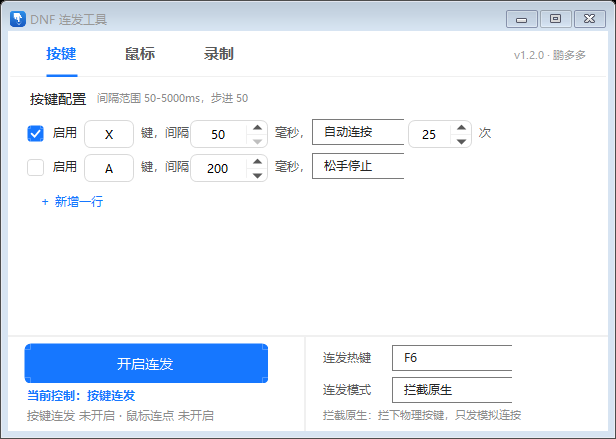
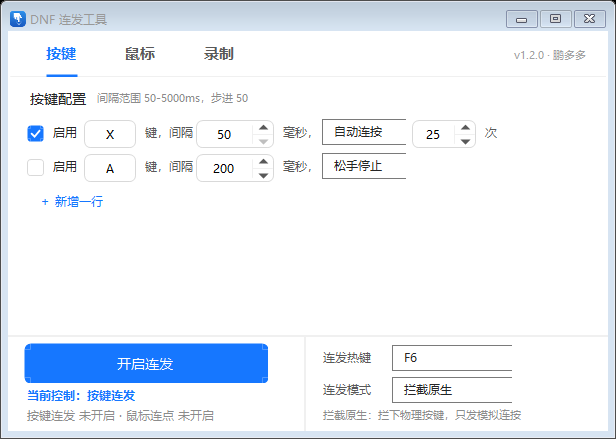
fix: 按键行控件不再为「次」挤压 + 录制/回放按钮回到左下角启动区
- 按键行：间距统一 6px（原来 4px 贴在一起显得挤），键名框 52、间隔框 78、
  下拉 84、次数框 64 均按内容给足；「次」紧跟次数框，行尾留给「删除」
  （固定在 RowWidth-48=496，各行上下对齐），两者不再重叠
- 录制页：撤掉页内两个按钮，回到左下角启动区——「● 开始录制」「▶ 开始回放」
  并排等宽（114 + 16 + 114，占原主按钮那块 244×40），非录制页仍是单个主按钮；
  按钮状态收进 SyncRecordButtons()，切页与状态变化都会刷新
- 录制页页内：回放设置行上移到 y=170（少了按钮那行），状态行 y=202 +
  固定提示 y=222
- README / CHANGELOG / PLAN §14 同步，重拍 screenShot_1 / screenShot_3

diff --git a/MainForm.cs b/MainForm.cs
@@ -682,21 +682,17 @@ public class MainForm : Form
     /// <summary>刷新主按钮与"当前控制"标识：跟随 Tab，且反映对应引擎的运行状态。</summary>
     private void RefreshRunCard()
     {
-        // 录制页的「开始/停止回放」按钮已经搬到页内（与开始录制并排），
-        // 底部这张卡只留「当前控制 + 状态」文字，不再重复一个同功能按钮
-        bool showMainButton = _tabIndex != TabRecord;
-        btnMain.Visible = showMainButton;
-        lblTarget.Top = showMainButton ? 50 : 28;
-        lblStatus.Top = showMainButton ? 70 : 54;
+        // 录制页在同一个位置放「开始录制 + 开始回放」两个按钮，其它 Tab 仍是单个主按钮
+        bool record = _tabIndex == TabRecord;
+        btnMain.Visible = !record;
+        btnRecord.Visible = record;
+        btnPlay.Visible = record;
 
         switch (_tabIndex)
         {
             case TabRecord:
-                lblTarget.Text = "当前控制：轨迹回放";
-                btnMain.Text = _player != null ? "停止回放" : "开始回放";
-                // 未选方案/录制中不可开始；回放中恒可停止
-                btnMain.Enabled = _player != null || (_recorder == null && SelectedProfile() != null);
-                btnMain.Danger = _player != null;
+                lblTarget.Text = "当前控制：录制回放";
+                SyncRecordButtons(); // 切到录制页时按当前状态刷一遍按钮
                 break;
 
             case TabMouse:
@@ -1053,8 +1049,10 @@ public class MainForm : Form
         pnlMain.Controls.Add(tabHeader);
         Controls.Add(pnlMain);
 
-        // 启动区（左下）：单按钮跟随当前 Tab——按键页控制连发、鼠标页控制连点
+        // 启动区（左下）：按键/鼠标页是一个主按钮；录制页换成「开始录制 / 开始回放」两个等宽按钮
         var pnlRun = new Panel { Location = new Point(2, 306), Size = new Size(294, 92), BackColor = Color.White };
+        const int RunBtnW = 114;              // (244 - 间距 16) / 2，两个按钮均分同一块宽度
+        const int RunBtnGap = 16;
         btnMain = new AntButton
         {
             Kind = AntButton.AntKind.Primary,
@@ -1063,6 +1061,26 @@ public class MainForm : Form
             Size = new Size(244, 40),
             Font = new Font(AntStyle.FontName, 10f)
         };
+        btnRecord = new AntButton
+        {
+            Kind = AntButton.AntKind.Primary,
+            Text = "● 开始录制",
+            Location = new Point(14, 6),
+            Size = new Size(RunBtnW, 40),
+            Font = new Font(AntStyle.FontName, 10f),
+            Visible = false
+        };
+        btnRecord.Click += (_, _) => ToggleRecording();
+        btnPlay = new AntButton
+        {
+            Kind = AntButton.AntKind.Default,
+            Text = "▶ 开始回放",
+            Location = new Point(14 + RunBtnW + RunBtnGap, 6),
+            Size = new Size(RunBtnW, 40),
+            Font = new Font(AntStyle.FontName, 10f),
+            Visible = false
+        };
+        btnPlay.Click += (_, _) => TogglePlayback();
         lblTarget = new Label
         {
             Text = "当前控制：按键连发",
@@ -1079,6 +1097,8 @@ public class MainForm : Form
             ForeColor = AntStyle.TextTertiary
         };
         pnlRun.Controls.Add(btnMain);
+        pnlRun.Controls.Add(btnRecord);
+        pnlRun.Controls.Add(btnPlay);
         pnlRun.Controls.Add(lblTarget);
         pnlRun.Controls.Add(lblStatus);
         Controls.Add(pnlRun);
@@ -1535,32 +1555,10 @@ public class MainForm : Form
         pnlRecRows.Controls.Add(lblRecEmpty);
         lblRecEmpty.BringToFront();
 
-        // 录制与回放并排，等宽均分（间距 16）：两个动作同级，谁也不比谁落后半行
-        const int BtnGap = 16;
-        const int BtnW = (RowWidth - BtnGap) / 2;   // 264
-        const int BtnY = 164;
-        btnRecord = new AntButton
-        {
-            Kind = AntButton.AntKind.Primary,
-            Text = "● 开始录制",
-            Location = new Point(16, BtnY),
-            Size = new Size(BtnW, 30)
-        };
-        btnRecord.Click += (_, _) => ToggleRecording();
-        page.Controls.Add(btnRecord);
-
-        btnPlay = new AntButton
-        {
-            Kind = AntButton.AntKind.Default,
-            Text = "▶ 开始回放",
-            Location = new Point(16 + BtnW + BtnGap, BtnY),
-            Size = new Size(BtnW, 30)
-        };
-        btnPlay.Click += (_, _) => TogglePlayback();
-        page.Controls.Add(btnPlay);
+        // 录制/回放两个按钮在左下角的启动区里并排（见 BuildUi 的 pnlRun），页面内不再放按钮
 
         // 回放行：模式 + 数值 + 单位 + 间隔
-        const int PlayRowY = 200;
+        const int PlayRowY = 170;
         lblPlay = new Label
         {
             Text = "回放",
@@ -1634,12 +1632,21 @@ public class MainForm : Form
         // 这一行空闲时是操作提示，录制/回放时变成状态（录制中… / 回放第几次）
         lblRecStatus = new Label
         {
-            Location = new Point(16, 232),
+            Location = new Point(16, 202),
+            AutoSize = true,
+            ForeColor = AntStyle.TextTertiary,
+            Font = new Font(AntStyle.FontName, 8f)
+        };
+        var lblRecHint = new Label
+        {
+            Text = "录制时主窗口收进托盘，右下角留状态条。",
+            Location = new Point(16, 222),
             AutoSize = true,
             ForeColor = AntStyle.TextTertiary,
             Font = new Font(AntStyle.FontName, 8f)
         };
         page.Controls.Add(lblRecStatus);
+        page.Controls.Add(lblRecHint);
     }
 
     /// <summary>回放模式收口：一直放＝隐藏数值框；其余按"次/分钟"给范围与单位。</summary>
@@ -1938,13 +1945,11 @@ public class MainForm : Form
         UpdateRecordUi();
     }
 
-    /// <summary>录制/回放状态与按钮文案、列表锁定统一在这里收口（所有入口都调它）。</summary>
-    private void UpdateRecordUi()
+    /// <summary>录制/回放两个按钮的文案与可用性（Tab 切换与状态变化都要刷新）。</summary>
+    private void SyncRecordButtons()
     {
         bool rec = _recorder != null;
         bool play = _player != null;
-        bool locked = rec || play;
-        bool canPlay = play || (!rec && SelectedProfile() != null);
 
         btnRecord.Text = rec ? "■ 停止录制" : "● 开始录制";
         btnRecord.Danger = rec;
@@ -1954,8 +1959,19 @@ public class MainForm : Form
         btnPlay.Text = play ? "■ 停止回放" : "▶ 开始回放";
         btnPlay.Kind = play ? AntButton.AntKind.Primary : AntButton.AntKind.Default;
         btnPlay.Danger = play;
-        btnPlay.Enabled = canPlay;
+        btnPlay.Enabled = play || (!rec && SelectedProfile() != null); // 未选方案/录制中不可开始
         btnPlay.Invalidate();
+    }
+
+    /// <summary>录制/回放状态与按钮文案、列表锁定统一在这里收口（所有入口都调它）。</summary>
+    private void UpdateRecordUi()
+    {
+        bool rec = _recorder != null;
+        bool play = _player != null;
+        bool locked = rec || play;
+        bool canPlay = play || (!rec && SelectedProfile() != null);
+
+        SyncRecordButtons();
 
         if (rec)
         {
@@ -2275,17 +2291,19 @@ public class MainForm : Form
         row.TxtKey = new AntInput
         {
             Location = new Point(58, 3),
-            Size = new Size(50, 28)
+            Size = new Size(52, 28)
         };
         row.TxtKey.Inner.MaxLength = 2;   // 单字符 A-Z/0-9；小键盘数字为 N0-N9 两字符
         row.TxtKey.Inner.CharacterCasing = CharacterCasing.Upper;
         row.TxtKey.Inner.TextAlign = HorizontalAlignment.Center;
         row.TxtKey.Text = key;
 
-        // 与鼠标页同构：控件位置按实测文字宽度顺排（Label.AutoSize 挂到父控件后 Right 才有值）
-        int x = 58 + 50 + 4;
+        // 控件按实测文字宽度顺排，间距统一 6px（Label.AutoSize 挂到父控件后 Right 才有值）。
+        // 宽度都按内容给足：键 2 字符、间隔 4 位数、下拉「自动连按」、次数 5 位数；
+        // 「次」紧跟次数框，行尾留给「删除」，两者互不重叠。
+        int x = 58 + 52 + 6;
         var lblGap = MakeRowText("键，间隔", x);
-        x += RowTextWidth("键，间隔") + 4;
+        x += RowTextWidth("键，间隔") + 6;
         row.TxtMs = new AntNumber
         {
             Location = new Point(x, 3),
@@ -2295,15 +2313,15 @@ public class MainForm : Form
             Max = MaxMs
         };
         row.TxtMs.Text = ms.ToString();
-        x += 78 + 4;
+        x += 78 + 6;
         var lblMs = MakeRowText("毫秒，", x);
-        x += RowTextWidth("毫秒，") + 4;
-        row.SelStop = new AntSelect { Location = new Point(x, 2), Width = 92 };
-        row.SelStop.Inner.DropDownWidth = 92;
+        x += RowTextWidth("毫秒，") + 6;
+        row.SelStop = new AntSelect { Location = new Point(x, 2), Width = 84 };
+        row.SelStop.Inner.DropDownWidth = 84;
         row.SelStop.Inner.Items.Add("松手停止");
         row.SelStop.Inner.Items.Add("自动连按");
         row.SelStop.SelectedIndex = stopMode == "auto" ? 1 : 0; // 先定下拉框，事件尚未挂上
-        x += 92 + 4;
+        x += 84 + 6;
         row.NumCount = new AntNumber
         {
             Location = new Point(x, 3),
@@ -2314,16 +2332,15 @@ public class MainForm : Form
         };
         row.NumCount.Text = "0"; // 0 = 无限
         row.NumCount.Inner.MaxLength = 5;
-        x += 64 + 4;
+        x += 64 + 6;
         row.LblCount = MakeRowText("次", x); // 单位跟着次数框一起显隐
-        x += RowTextWidth("次") + 4;
         ApplyKeyStopMode(row, stopMode, stopValue); // 初始收口：松手停止时隐藏次数框
         row.LnkDel = new AntButton
         {
             Kind = AntButton.AntKind.Text,
             Danger = true,
             Text = "删除",
-            Location = new Point(Math.Min(x, RowWidth - 44), 3),
+            Location = new Point(RowWidth - 48, 3), // 固定在行尾右侧，各行的「删除」上下对齐
             Size = new Size(44, 26),
             Visible = false
         };

diff --git a/docs/PLAN-v1.2.0.md b/docs/PLAN-v1.2.0.md
@@ -687,10 +687,10 @@ MacroPlayer.Start(profile, repeatMode, value)
 | 合并的两个坑 | ① `JsonValueKind` 把 `true`/`false` 拆成 `True`、`False` 两个值，直接比 `GetValueKind()` 会把合法布尔值判成类型不符 → 加 `KindMatches` 专门放行布尔；② 默认值为 `null` 的字段（`ConfigVersion`）在骨架里是 `null`，需要单独走"沿用文件值"分支，否则每次加载都会把它丢掉并记一次"非法值回落" |
 | 旧字段 `PlayGapMs` → `PlayGapSec` | 合并前先跑 `MigrateLegacy`：文件里没有 `PlayGapSec` 但有 `PlayGapMs` 时换算成秒（`(ms+500)/1000`），日志留一条迁移记录 |
 | 自动点击次数框步进 | `Step` 1、默认 `1`、范围 `0–99999`（0 = 无限），数字框后补「次」单位；单位与次数框一起显隐（松手停止时都隐藏）。`Limits.MouseCountMax = 99999`，与按键连按（`Limits.KeyCountMax = 100000`）分开 |
-| 按键次数框与鼠标页对齐 | 按键行 `NumCount` 改成 `Step=1`、`Max=99999`（`Limits.KeyCountMax` 同步 100000 → 99999），框后加「次」`Label`（`RowControls.LblCount`），`ApplyKeyStopMode` 里与数值框一起显隐。行内控件改为按实测宽度顺排（`TxtKey` 50 / `TxtMs` 78 / `SelStop` 92 / `NumCount` 64），否则加「次」后「删除」会越出 544 行宽 |
-| 录制页两个按钮并排 | `btnPlay` 新增在页内：`BtnW = (RowWidth - 16) / 2 = 264`，`btnRecord` 在 16、`btnPlay` 在 16+264+16=296，同一 y=164。录制页底部卡片不再显示 `btnMain`（`RefreshRunCard` 里按 Tab 控制 `Visible`，标签上移补位），避免出现两个「开始回放」 |
-| 录制页标题统一 | 改用 `AddPageTitle(page, "鼠标录制回放", "最多 10 个方案，单次录制上限 10 分钟")`；列表下移到 y=38，回放设置行 y=200，页底一行 y=232 |
-| 录制页状态行复用 | `lblRecStatus` 挪到 y=232 当「状态/提示」两用：空闲显示 `RecordHint`（F9/F10 说明，8pt 灰），录制中红字「● 录制中…」，回放中由 `PlayTimer_Tick` 写进度（蓝字）。「共 N 个方案」「已选：方案X · 时长」文案与 `lblPlayInfo` / `DescribeSelection` 一并删除 |
+| 按键次数框与鼠标页对齐 | 按键行 `NumCount` 改成 `Step=1`、`Max=99999`（`Limits.KeyCountMax` 同步 100000 → 99999），框后加「次」`Label`（`RowControls.LblCount`），`ApplyKeyStopMode` 里与数值框一起显隐。行内控件改为按实测宽度顺排，间距统一 6px、宽度按内容给足（`TxtKey` 52 / `TxtMs` 78 / `SelStop` 84 / `NumCount` 64）；「次」紧跟次数框（x≈456），`LnkDel` 固定在 `RowWidth - 48 = 496`、各行上下对齐，两者互不重叠 |
+| 录制页两个按钮并排 | 两个按钮放进左下角启动区 `pnlRun`（不另起一行）：`RunBtnW = (244 - 16) / 2 = 114`，`btnRecord` 在 (14,6)、`btnPlay` 在 (144,6)，与 `btnMain` 同一块 244×40 区域。`RefreshRunCard` 按 Tab 切换 `Visible`：录制页显示这两枚、隐藏 `btnMain`；其它页反之。按钮文案/可用性收进 `SyncRecordButtons()`，`UpdateRecordUi` 与切页都会调 |
+| 录制页标题统一 | 改用 `AddPageTitle(page, "鼠标录制回放", "最多 10 个方案，单次录制上限 10 分钟")`；列表下移到 y=38，回放设置行 y=170（页内不再放按钮，整行上移），状态行 y=202 + 固定提示 y=222 |
+| 录制页状态行复用 | `lblRecStatus` 挪到 y=202 当「状态/提示」两用：空闲显示 `RecordHint`（F9/F10 说明，8pt 灰），录制中红字「● 录制中…」，回放中由 `PlayTimer_Tick` 写进度（蓝字）。「共 N 个方案」「已选：方案X · 时长」文案与 `lblPlayInfo` / `DescribeSelection` 一并删除 |
 | 方案行改名框与时长 | 名称框固定 `200×28`（`MaxLength=15`），时长文字 `RecordProfile.Summary` 改为「总时长 12.4s」放在 x=234，删除按钮位置 = `234 + RowTextWidth(Summary) + 12`，紧跟时长不再拉到行尾 |
 | 鼠标页底部说明拆三行 | 一个 `Label` 自动换行在窗口变窄时会折行数，改成三条独立 `Label`（y = 168 / 187 / 206，8pt 灰字）：松手停止 / 自动点击 / 滚轮＝滚轮按下（中键） |
 

diff --git a/README.md b/README.md
@@ -21,7 +21,7 @@
   - 方案上限 10 个，列表内单选、行内改名（名称框固定 200px、最多 15 字符）、一键删除；行内跟在名称后面显示「总时长 12.4s」，删除紧跟在时长之后；单次录制上限 10 分钟，触顶自动停
   - 只录物理鼠标（左/右/中键 + 移动），程序自己注入的事件会被过滤；点状态条、拖状态条都不会录进轨迹
   - 方案存在独立文件 `recordings.json`，与 `config.json` 分开（避免每次勾选配置都重写大文件）
-- **轨迹回放**（v1.2.0 新增）：选中一个方案后点列表下方的「▶ 开始回放」（与「● 开始录制」并排、等宽）或按 `F10`，按录制时的时间轴重放光标移动与点击
+- **轨迹回放**（v1.2.0 新增）：选中一个方案后点左下角的「▶ 开始回放」（与「● 开始录制」并排、等宽）或按 `F10`，按录制时的时间轴重放光标移动与点击
   - 三种模式：**回放 N 次**（1–9999）/ **一直放**（默认）/ **定时 N 分钟**（1–600，到点即停，允许截断在半轮）
   - **回放间隔**：两轮之间等多久，默认 `1` 秒，可设 `0–999999` 秒，步进 1；`0` = 轮尾直接接轮头
   - 按 60fps 节奏重放：慢速大跨度移动自动按 16ms 补中间点，点击按下/抬起至少保持 20ms
@@ -47,7 +47,7 @@
 4. 需要鼠标连点时切到「鼠标」页，配置间隔与停止条件、勾选启用，点击「开启连点」；「松手停止」的行**按住对应鼠标键即连点，松开即停**，「自动点击」的行开启后不用按任何键，次数跑完自动停（全部是自动点击行时，整体自动关回停止态）
 5. 开启后窗口自动最小化到托盘，按 `F6`/`F8` 或点击托盘图标可随时关闭对应的连发/连点
 6. 需要录轨迹时切到「录制」页点「● 开始录制」（或按 `F9`）：主窗口收进托盘，右下角出现状态条，正常操作鼠标即可；结束点状态条的 ■、再按 `F9` 或托盘菜单「停止录制」，方案会自动命名保存
-7. 回放：在「录制」页的列表里勾选一个方案，选好模式（回放 N 次 / 一直放 / 定时 N 分钟）与回放间隔，点列表下方的「▶ 开始回放」（和「开始录制」并排）或按 `F10`；主窗口自动收进托盘，右下角状态条显示当前是第几次，把游戏切到前台即可，再按 `F10` 立刻停
+7. 回放：在「录制」页的列表里勾选一个方案，选好模式（回放 N 次 / 一直放 / 定时 N 分钟）与回放间隔，点左下角的「▶ 开始回放」（和「开始录制」并排）或按 `F10`；主窗口自动收进托盘，右下角状态条显示当前是第几次，把游戏切到前台即可，再按 `F10` 立刻停
 8. 修改任意配置（键名、间隔、勾选、热键、模式、连点参数、回放模式与间隔）后自动保存到 `config.json` 并即时生效，无需手动保存
 9. 关闭窗口：点 X 会问「最小化到托盘还是退出」，选最小化则程序继续在后台运行（连发/连点/录制回放不中断）；确实要退出可选「退出程序」，或直接右键托盘图标点「退出程序」
 

diff --git a/CHANGELOG.md b/CHANGELOG.md
@@ -27,14 +27,14 @@
 
 ### 变更
 
-- 按键页、鼠标页去掉「按下」「按住」字样，行内控件按实测文字宽度顺排
+- 按键页、鼠标页去掉「按下」「按住」字样，行内控件按实测文字宽度顺排（间距统一 6px，控件按内容给足宽度：键名 2 字符、间隔 4 位数、下拉「自动连按」、次数 5 位数），「次」与行尾「删除」各就各位、互不重叠
 - 鼠标连点次数上限 9999 → 99999，`0` 表示无限；步进由 100 改为 1，默认值 1
 - 按键自动连按次数与鼠标页对齐：上限 100000 → 99999，步进 100 → 1，框后补「次」单位并跟着数值框一起显隐
 - 窗口尺寸保持 600×400：三行鼠标配置与提示靠压缩页内间距排下，未加高窗口
 - 录制页新增回放设置行（模式 / 次数或分钟 / 间隔），底部提示同步更新
-- 录制页「● 开始录制」与「▶ 开始回放」并排等宽（间距 16），底部卡片在这页不再重复一个「开始回放」按钮，只留「当前控制 + 状态」文字
-- 录制页顶部改为与按键/鼠标页同一套标题样式（10.5pt 标题 + 8pt 灰字「最多 10 个方案，单次录制上限 10 分钟」）；去掉「未录制 / 共 N 个方案 / 已选 / 未选方案」文案，底部那一行空闲时显示操作提示、录制/回放时变成状态（录制中 / 回放第几次）
-- 录制页回放行新增「间隔」数值框；「已选：方案X · 时长」移到「开始录制」同一行，给间隔让位
+- 录制页「● 开始录制」与「▶ 开始回放」放在左下角启动区里并排、等宽（间距 16），页面内不再放按钮；卡片下方仍是「当前控制 + 状态」
+- 录制页顶部改为与按键/鼠标页同一套标题样式（10.5pt 标题 + 8pt 灰字「最多 10 个方案，单次录制上限 10 分钟」）；去掉「未录制 / 共 N 个方案 / 已选 / 未选方案」文案，页底那行空闲时显示操作提示、录制/回放时变成状态（录制中 / 回放第几次）
+- 录制页回放行新增「间隔」数值框；「已选：方案X · 时长」文案去掉，不再占位
 - 回放间隔按**秒**填写（默认 1 秒，0–999999，步进 1），配置字段同步为 `PlayGapSec`；旧 `PlayGapMs` 读入时忽略并回落默认 1 秒
 - 连发模式选项改名为「保留原生 / 拦截原生」，说明文字随选中项切换；间隔范围说明挪到「按键配置」标题行，标题字号 +1
 - 方案列表与录制状态条不再显示采样点数（「12.4s · 517 点」→「12.4s」），录制页提示去掉「可拖动」「回放时把游戏切到前台」「60000 点」等字样
